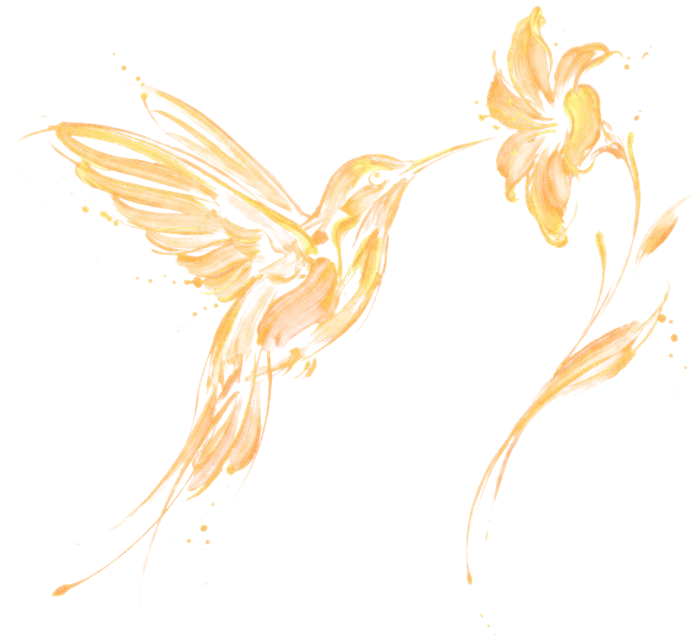
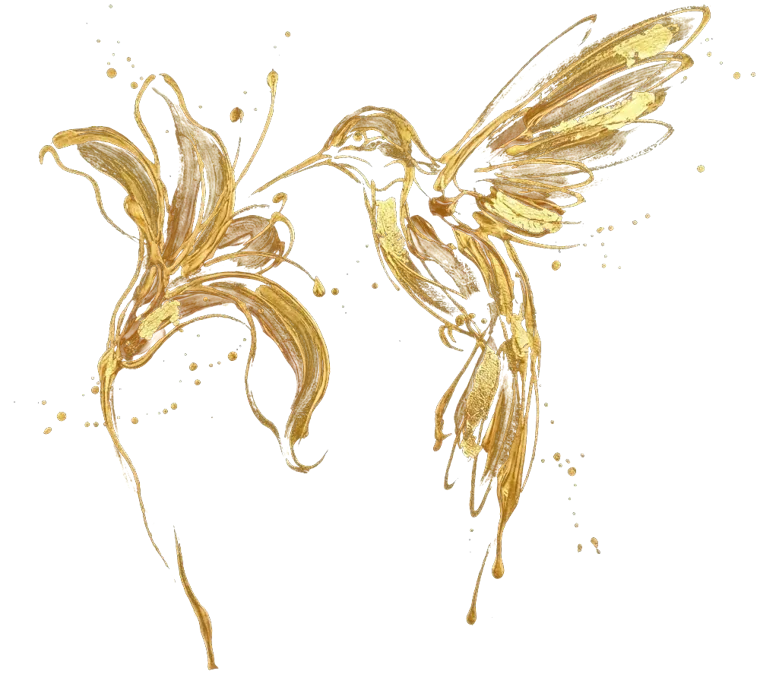
Preço volta ao branco; beija-flor novo saindo de trás do painel no desktop e no canto superior direito no celular

diff --git a/index.html b/index.html
@@ -910,9 +910,6 @@
 
   /* imprensa: titulo inteiro em branco */
   .imprensa-sec h2 .dourado{background:none !important; color:#FFFFFF !important; -webkit-text-fill-color:#FFFFFF !important;}
-  /* preco no mesmo dourado do painel ao lado */
-  .investimento .investimento-valor strong{background:var(--gradiente-botao); -webkit-background-clip:text; background-clip:text;
-    color:var(--ouro-faixa-reflexo); -webkit-text-fill-color:transparent; -webkit-text-stroke:.6px #FFFFFF; paint-order:stroke fill;}
 
   /* capa no desktop: o esfumado fica so no canto, o pincel na mao aparece */
   @media (min-width:701px){
@@ -921,12 +918,12 @@
       mask-image:linear-gradient(90deg, transparent 0, #000 7%), radial-gradient(ellipse 26% 46% at 7% 66%, #000 55%, transparent 100%), linear-gradient(90deg, transparent 0, #000 22%);
       -webkit-mask-composite:source-in, source-over; mask-composite:intersect, add;}
   }
-  /* beija-flor pintado em ouro no canto do painel, saindo um pouco para fora */
-  .investimento-descricao{position:relative; overflow:visible;}
-  .beija-flor{position:absolute; right:-28px; top:-46px; width:clamp(150px, 17vw, 250px); height:auto; pointer-events:none;
-    filter:drop-shadow(0 6px 10px rgba(var(--preto-rgb),.35)) brightness(1.08);}
-  .investimento-descricao .investimento-frase, .investimento-descricao .btn{position:relative; z-index:1;}
-  @media (max-width:700px){ .beija-flor{width:130px; right:-10px; top:-56px;} }
+  /* beija-flor pintado em ouro: no desktop sai de tras do painel, olhando para o texto; no celular fica no canto superior direito */
+  .investimento-descricao{position:relative; overflow:visible; isolation:isolate; background:none !important;}
+  .investimento-descricao::before{content:""; position:absolute; inset:0; z-index:-1; background:var(--gradiente-botao);}
+  .beija-flor{position:absolute; z-index:-2; right:calc(100% - 70px); top:50%; transform:translateY(-50%); width:clamp(220px, 21vw, 320px); height:auto;
+    pointer-events:none; filter:drop-shadow(0 6px 12px rgba(var(--preto-rgb),.35));}
+  @media (max-width:700px){ .beija-flor{z-index:1; right:-12px; left:auto; top:-74px; transform:none; width:150px;} }
   /* capa no celular: foto ancorada a esquerda e texto um pouco mais abaixo, para ver o pincel na mao */
   @media (max-width:700px){
     :root{--capa-foto-altura:125.1vw; --capa-reserva:min(calc(var(--capa-foto-altura) * .82), 52svh);}
@@ -1200,7 +1197,7 @@ Prompt usado: Use case: stylized-concept. Asset type: decorative material textur
           <p class="investimento-valor" id="investimento-titulo">Pinturas sobre tela a partir de <strong>R$ 3.900.</strong></p>
         </div>
         <div class="investimento-descricao">
-          <img class="beija-flor" src="img/beija-flor-ouro.webp" alt="" width="700" height="636" loading="lazy" decoding="async">
+          <img class="beija-flor" src="img/beija-flor-ouro.webp" alt="" width="760" height="674" loading="lazy" decoding="async">
           <p class="investimento-frase">Toda história merece uma tela só dela. Conte a sua para a Ale e descubra como ela pode virar arte.</p>
           <a class="btn btn-1 btn-orcamento wa" data-colecao="uma obra sob encomenda" href="#contato"><svg class="contato-brilho" viewBox="8 0 56 40" fill="none" stroke="currentColor" stroke-width="2" stroke-linejoin="round" aria-hidden="true" focusable="false"><path d="M28 2C30 13 33 17 44 20C33 23 30 27 28 38C26 27 23 23 12 20C23 17 26 13 28 2Z"/><path d="M52 2C53 7 55 9 60 10C55 11 53 13 52 18C51 13 49 11 44 10C49 9 51 7 52 2Z"/></svg><span class="btn-texto">Solicitar orçamento</span></a>
         </div>
